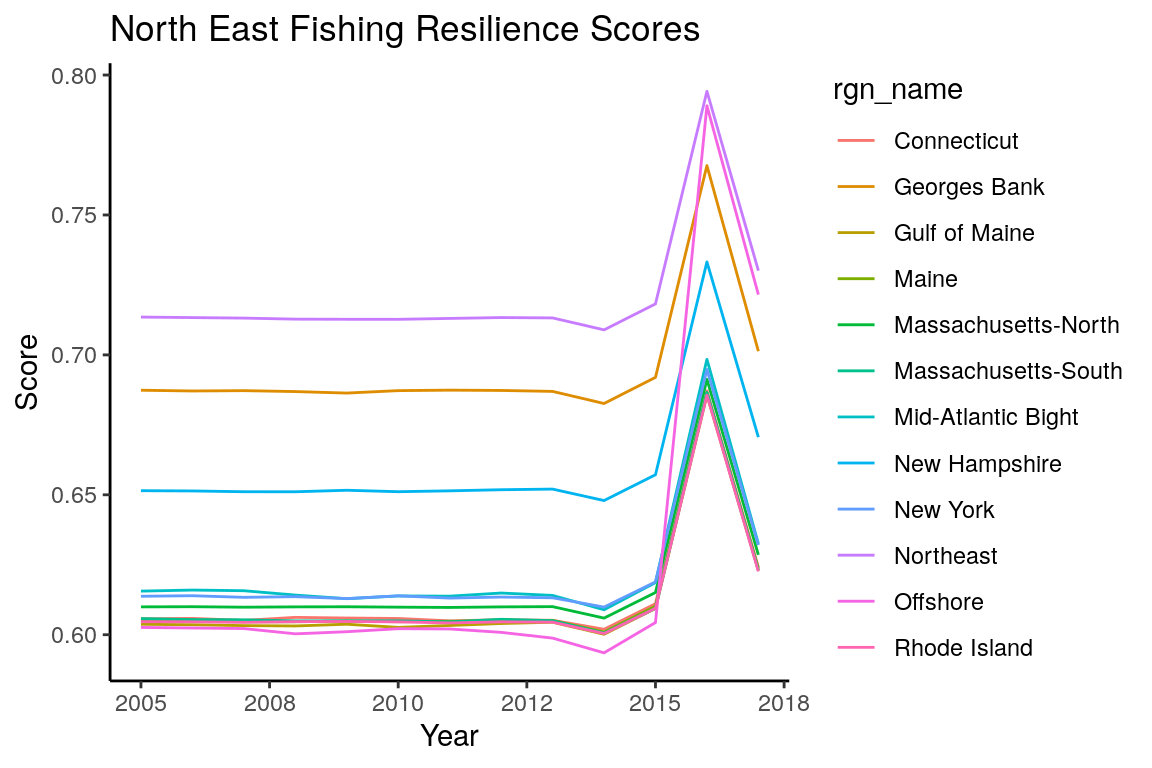
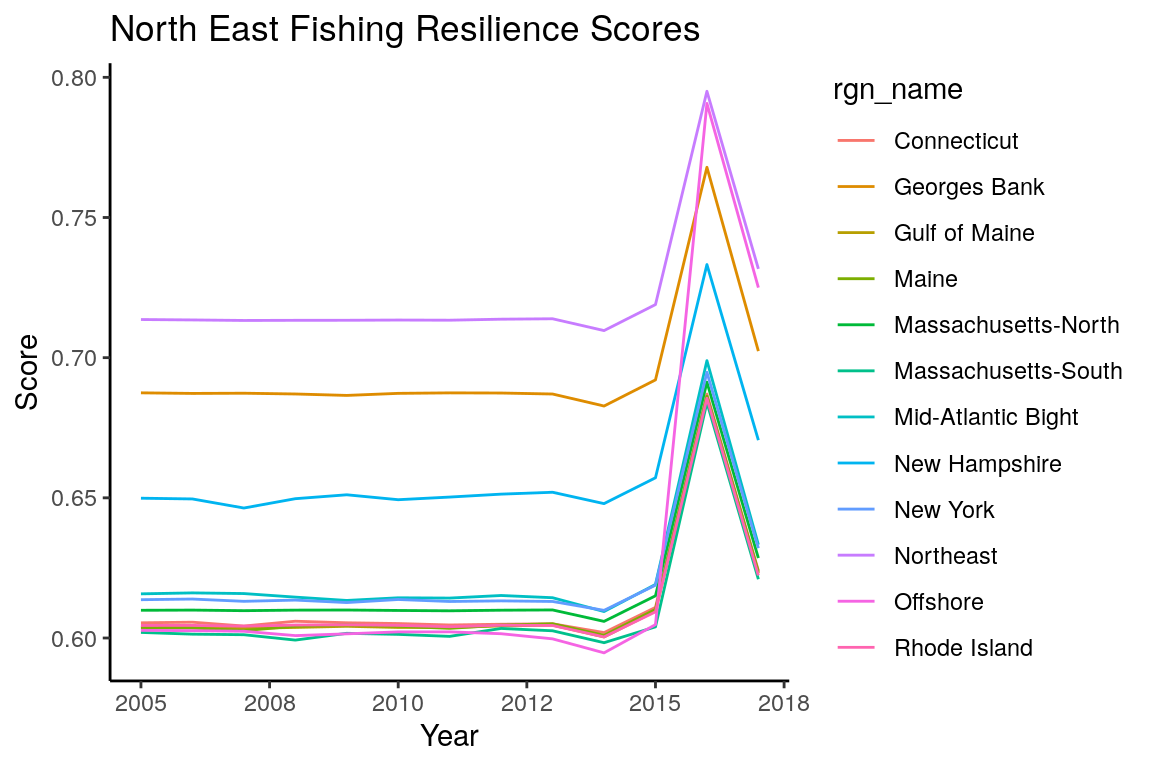
reran because lobster fisheries changed

diff --git a/prep/resilience/ecological/fishing_pressure/stock_ass_and_ass_adq.html b/prep/resilience/ecological/fishing_pressure/stock_ass_and_ass_adq.html
@@ -10,7 +10,7 @@
 <meta http-equiv="X-UA-Compatible" content="IE=EDGE" />
 
 
-<meta name="author" content="Compiled on Tue Feb 4 13:56:43 2020 by verstaen" />
+<meta name="author" content="Compiled on Fri Feb 7 16:04:44 2020 by verstaen" />
 
 
 <title>OHINE: Fishing Resilience - Combining Data from stocks assessed and stocks adequately assessed</title>
@@ -1643,7 +1643,7 @@ div.tocify {
 
 
 <h1 class="title toc-ignore">OHINE: Fishing Resilience - Combining Data from stocks assessed and stocks adequately assessed</h1>
-<h4 class="author"><em>Compiled on Tue Feb 4 13:56:43 2020 by verstaen</em></h4>
+<h4 class="author"><em>Compiled on Fri Feb 7 16:04:44 2020 by verstaen</em></h4>
 
 </div>
 

diff --git a/prep/resilience/ecological/fishing_pressure/adeq_assessed.html b/prep/resilience/ecological/fishing_pressure/adeq_assessed.html
@@ -10,7 +10,7 @@
 <meta http-equiv="X-UA-Compatible" content="IE=EDGE" />
 
 
-<meta name="author" content="Compiled on Tue Feb 4 13:56:11 2020 by verstaen" />
+<meta name="author" content="Compiled on Fri Feb 7 16:04:22 2020 by verstaen" />
 
 
 <title>OHINE: Fishing Resilience - Fish Landed with Stock Assessments Data Prep</title>
@@ -1643,7 +1643,7 @@ div.tocify {
 
 
 <h1 class="title toc-ignore">OHINE: Fishing Resilience - Fish Landed with Stock Assessments Data Prep</h1>
-<h4 class="author"><em>Compiled on Tue Feb 4 13:56:11 2020 by verstaen</em></h4>
+<h4 class="author"><em>Compiled on Fri Feb 7 16:04:22 2020 by verstaen</em></h4>
 
 </div>
 
